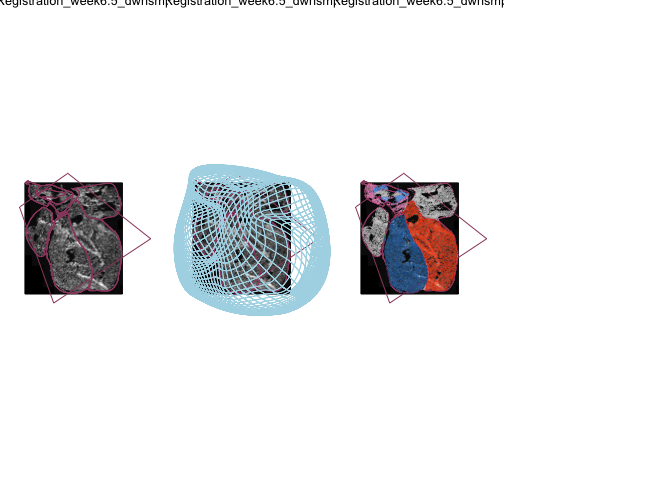
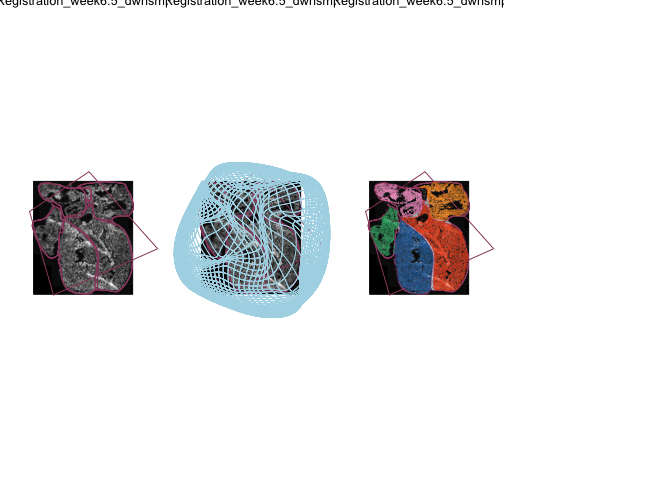
updated

Changed region(s): [[0.25, 0.3125, 0.5, 0.6875], [0.5312, 0.3438, 0.75, 0.625], [0.0312, 0.3438, 0.25, 0.625]]

diff --git a/README.md b/README.md
@@ -53,7 +53,7 @@ if(!require("png")){
   library("png")
 }
 #load in the registration transformation
-load('./data/ISS_regi6_5weeks.RData')
+load('./data/ISS_regi6_5weeks_regV2.RData')
 #get your dataset object
 dataset<-rcp.to.atlas(regi, segmentation)
 ```
@@ -65,19 +65,19 @@ head(dataset)
 ```
 
     ##          x        y intensity area id   color acronym right.left
-    ## 1 4292.889 9385.777  2885.750    6 NA #000000    <NA>   177.6420
-    ## 2 4262.615 9392.975  4528.455   52 NA #000000    <NA>   176.0549
-    ## 3 4246.311 9373.688  4970.923   30 NA #000000    <NA>   176.3393
-    ## 4 4201.455 9378.637  3419.029   88 NA #000000    <NA>   174.3902
-    ## 5 4138.000 9371.394  2034.167   44 NA #000000    <NA>   171.9662
-    ## 6 4076.000 9366.000  2969.250    4 NA #000000    <NA>   169.6994
+    ## 1 4292.889 9385.777  2885.750    6 NA #000000    <NA>   187.3178
+    ## 2 4262.615 9392.975  4528.455   52 NA #000000    <NA>   184.5779
+    ## 3 4246.311 9373.688  4970.923   30 17 #0B61A4      RV   184.5679
+    ## 4 4201.455 9378.637  3419.029   88 17 #0B61A4      RV   181.5681
+    ## 5 4138.000 9371.394  2034.167   44 17 #0B61A4      RV   177.2570
+    ## 6 4076.000 9366.000  2969.250    4 17 #0B61A4      RV   173.3528
     ##   rostral.caudal
-    ## 1       512.2987
-    ## 2       512.3581
-    ## 3       510.6952
-    ## 4       510.3416
-    ## 5       509.1041
-    ## 6       507.7515
+    ## 1       533.7968
+    ## 2       534.9030
+    ## 3       532.7968
+    ## 4       533.2968
+    ## 5       532.7221
+    ## 6       532.3415
 
 To get how many RCPs you have in agiven region check for example:
 
@@ -86,8 +86,8 @@ table(dataset$acronym)
 ```
 
     ## 
-    ##  epc   LV   OT    P   RA   RV   WH 
-    ##   33 8387  815  702   37 8203 6141
+    ##  epc   LA   LV   OT   RA   RV   WH 
+    ##   63 3459 8133 2363 2218 7283  821
 
 We can also plot this:
 
@@ -145,7 +145,12 @@ drawScene.rgl(organ[which(names(organ.dwnsmp)%in%c('WH'))])
 #add anterior posterio value from registration file
 dataset$anterior.posterior<-rep(atlasIndex[which(atlasIndex[,2]==regi$coordinate), 1], length(dataset$right.left))
 #draw the points
-points3d(598-dataset$rostral.caudal, 532-dataset$right.left, dataset$anterior.posterior, alpha = 0.5, size = 0.5, color = black)
+points3d(598-dataset$rostral.caudal, 
+         532-dataset$right.left, 
+         dataset$anterior.posterior, 
+         alpha = 0.5, 
+         size = 0.5, 
+         color = "black")
 #save image as PNG
 rgl.snapshot(filename='./data/3d_heart_RCPs.png')
 ```
